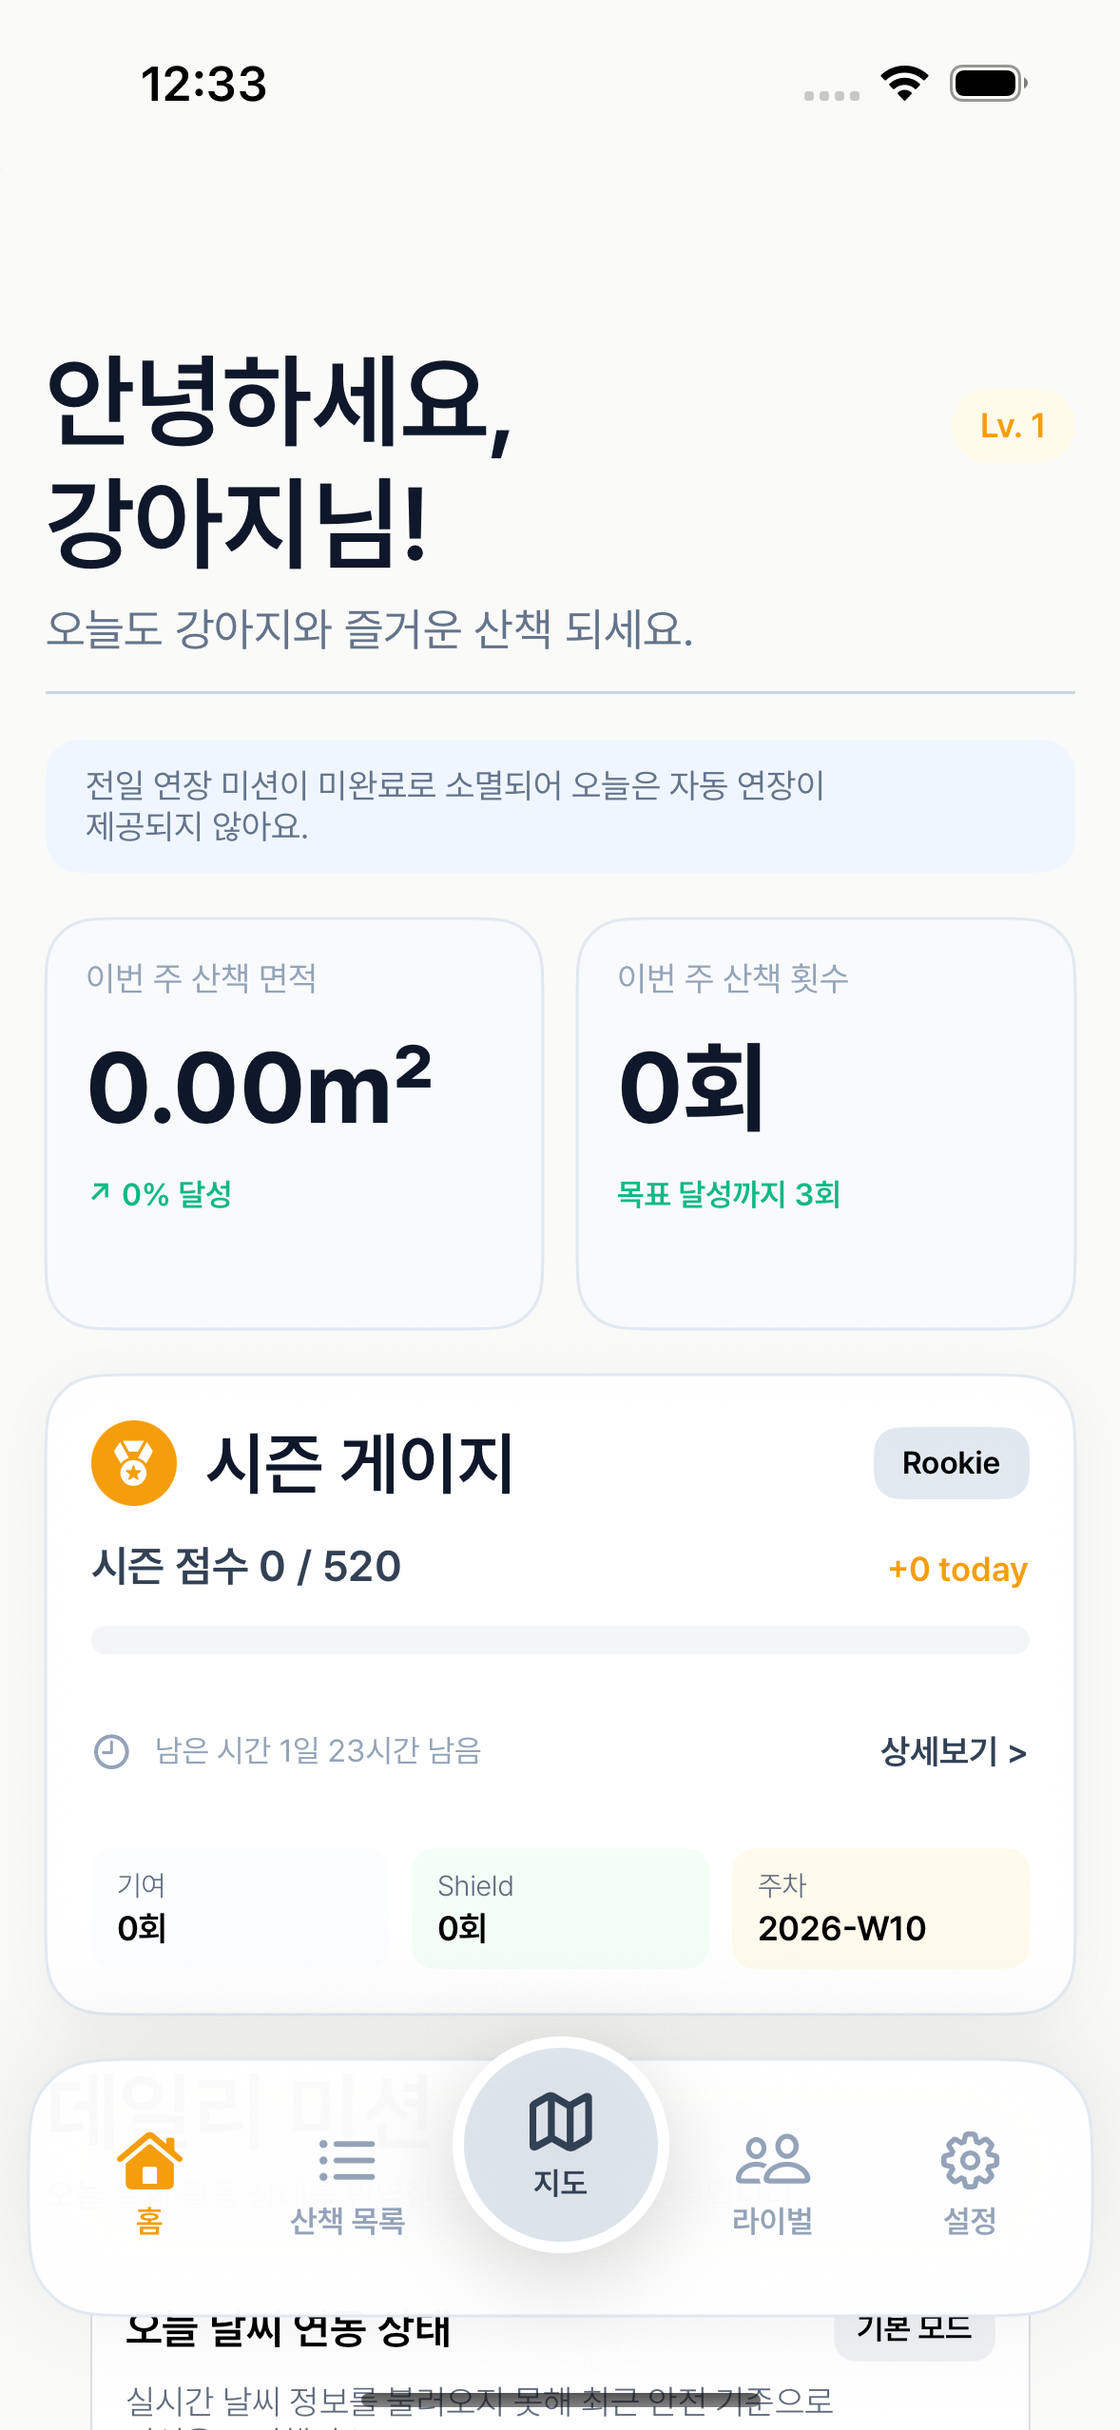
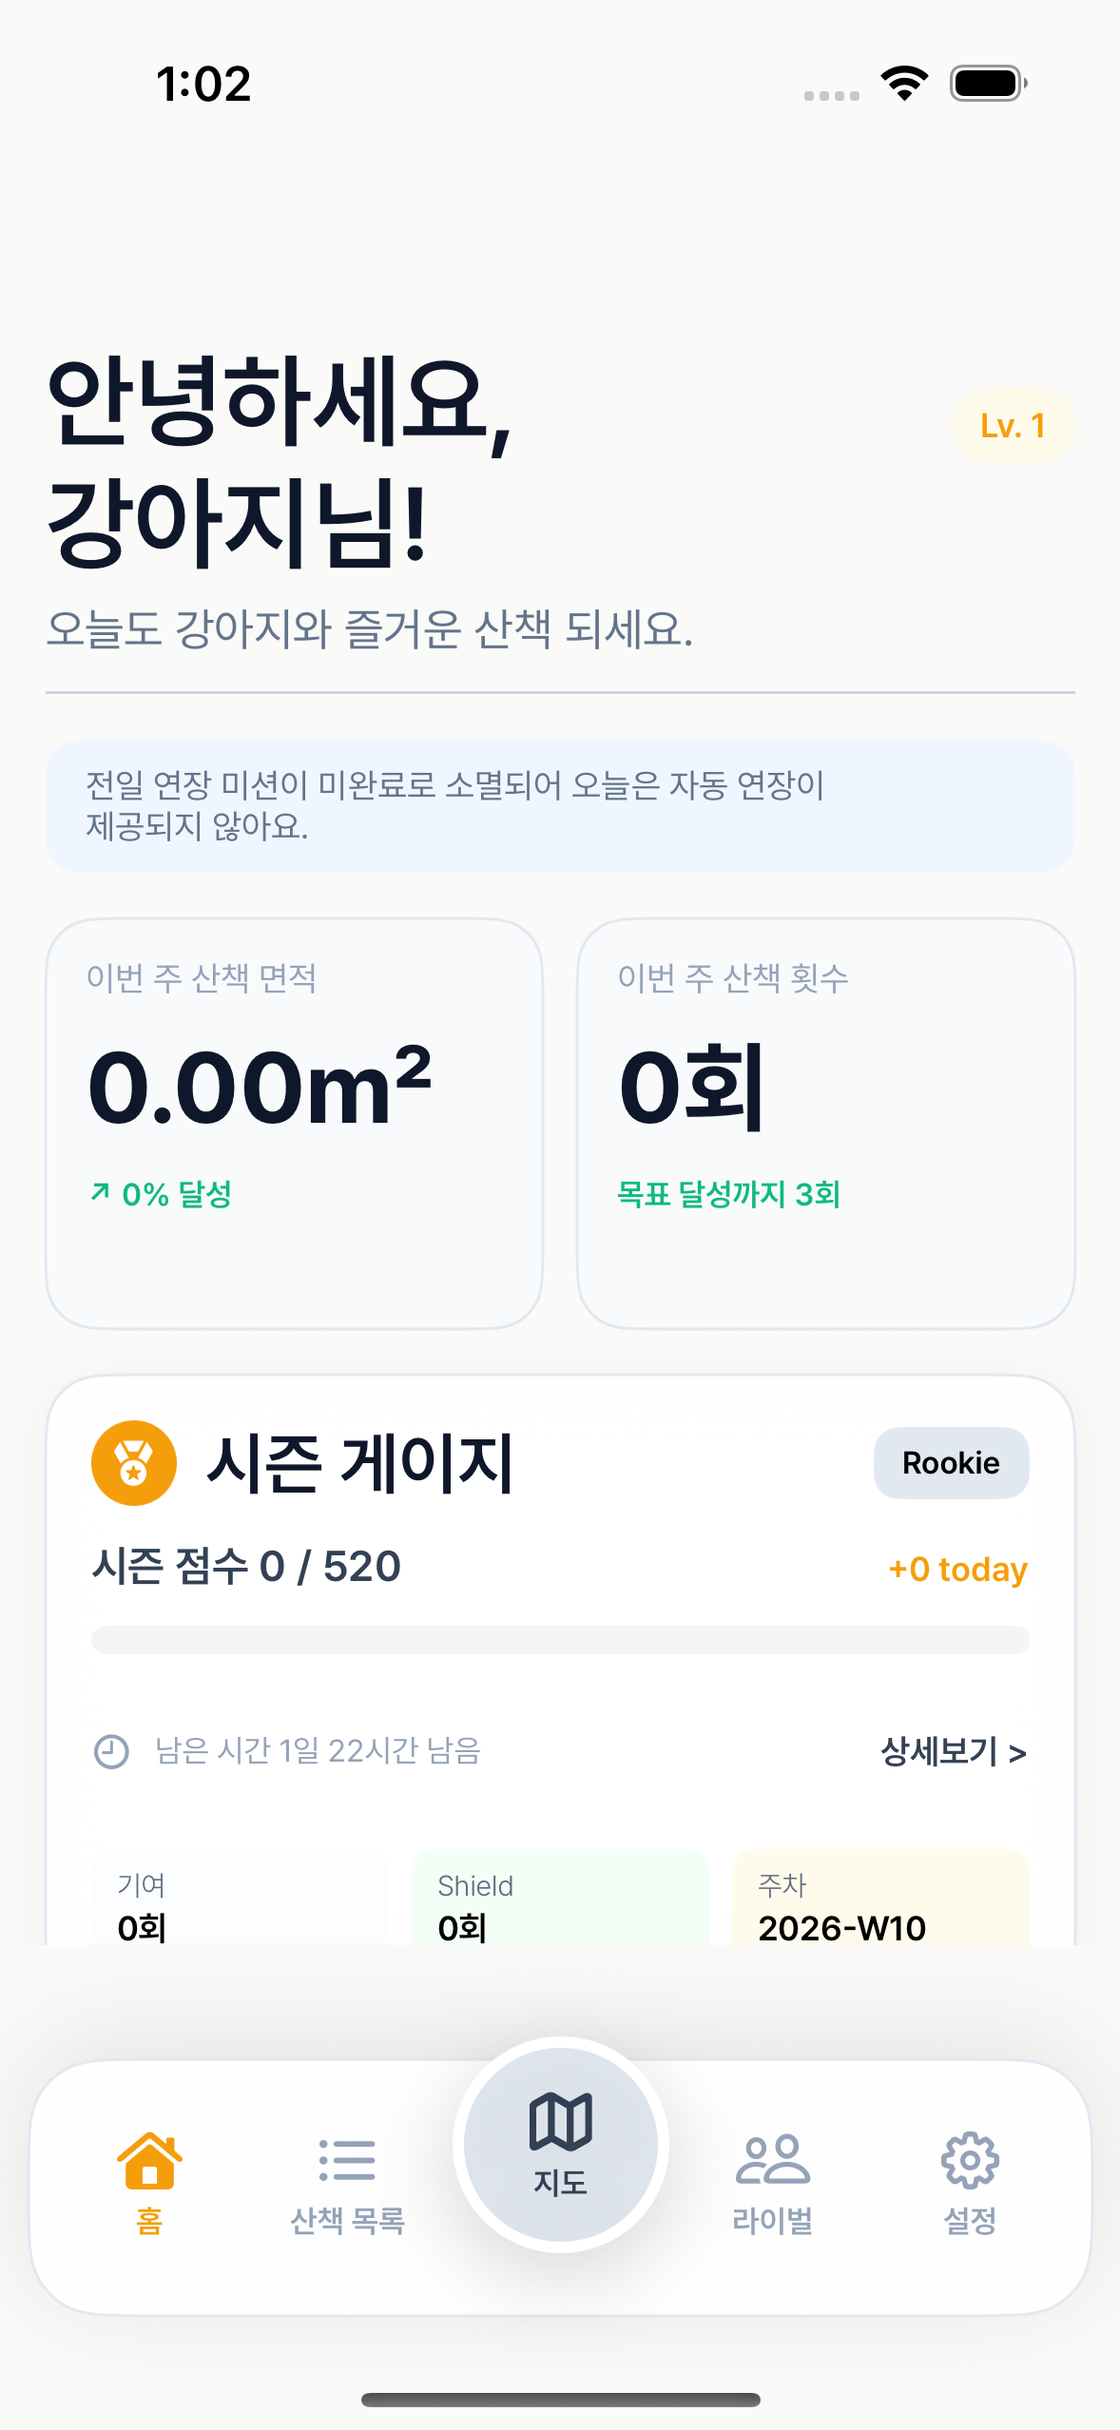
refactor: normalize app tab scaffold safe area contracts

diff --git a/dogArea/Views/GlobalViews/BaseView/AppTabScaffold.swift b/dogArea/Views/GlobalViews/BaseView/AppTabScaffold.swift
@@ -5,8 +5,29 @@ enum AppTabBarVisibility: Equatable {
     case hidden
 }
 
+enum AppTabLayoutMetrics {
+    static let defaultTabBarReservedHeight: CGFloat = 124
+    static let topSafeAreaPadding: CGFloat = 8
+    static let minimumBottomPadding: CGFloat = 12
+    static let defaultScrollExtraBottomPadding: CGFloat = 12
+    static let comfortableScrollExtraBottomPadding: CGFloat = 20
+    static let floatingOverlayLift: CGFloat = 28
+
+    /// 상단 오버레이가 상태 바와 겹치지 않도록 필요한 여백을 계산합니다.
+    /// - Parameters:
+    ///   - safeAreaTopInset: 현재 컨테이너의 상단 safe area inset 값입니다.
+    ///   - extra: 추가로 확보할 상단 여백입니다.
+    /// - Returns: 상단 오버레이에 적용할 최종 spacing 값입니다.
+    static func topOverlaySpacing(
+        safeAreaTopInset: CGFloat,
+        extra: CGFloat = topSafeAreaPadding
+    ) -> CGFloat {
+        max(safeAreaTopInset, 0) + extra
+    }
+}
+
 private struct AppTabBarReservedHeightKey: EnvironmentKey {
-    static let defaultValue: CGFloat = CustomTabBar.reservedContentHeight
+    static let defaultValue: CGFloat = AppTabLayoutMetrics.defaultTabBarReservedHeight
 }
 
 struct AppTabBarVisibilityPreferenceKey: PreferenceKey {
@@ -38,6 +59,37 @@ private struct AppTabBarContentPaddingModifier: ViewModifier {
     /// - Returns: 탭 바 예약 높이가 반영된 뷰입니다.
     func body(content: Content) -> some View {
         content.padding(.bottom, reservedHeight + extra)
+    }
+}
+
+private struct AppTabRootScrollLayoutModifier: ViewModifier {
+    let extraBottomPadding: CGFloat
+    let topSafeAreaPadding: CGFloat
+    let showsIndicators: Bool
+
+    /// 탭 루트 스크롤 화면의 공통 safe area, 배경, 하단 inset 정책을 적용합니다.
+    /// - Parameter content: 공통 탭 스크롤 레이아웃을 적용할 원본 뷰입니다.
+    /// - Returns: 전역 탭 스캐폴드 계약이 반영된 스크롤 뷰입니다.
+    func body(content: Content) -> some View {
+        content
+            .scrollIndicators(showsIndicators ? .visible : .hidden)
+            .safeAreaPadding(.top, topSafeAreaPadding)
+            .background(Color.appTabScaffoldBackground)
+            .appTabBarContentPadding(extra: extraBottomPadding)
+    }
+}
+
+private struct AppTabFloatingOverlayPaddingModifier: ViewModifier {
+    @Environment(\.appTabBarReservedHeight) private var reservedHeight
+
+    let lift: CGFloat
+    let minimumBottomPadding: CGFloat
+
+    /// 플로팅 CTA/오버레이가 하단 탭바 위에 안정적으로 배치되도록 여백을 적용합니다.
+    /// - Parameter content: 하단 플로팅 오버레이로 배치할 원본 뷰입니다.
+    /// - Returns: 탭바 회피용 하단 여백이 적용된 뷰입니다.
+    func body(content: Content) -> some View {
+        content.padding(.bottom, max(reservedHeight - lift, minimumBottomPadding))
     }
 }
 
@@ -106,6 +158,43 @@ extension View {
     /// - Returns: 탭 바 대비 하단 여백이 적용된 뷰입니다.
     func appTabBarContentPadding(extra: CGFloat = 0) -> some View {
         modifier(AppTabBarContentPaddingModifier(extra: extra))
+    }
+
+    /// 탭 루트의 스크롤 화면에 공통 safe area, 배경, 탭바 회피 여백을 적용합니다.
+    /// - Parameters:
+    ///   - extraBottomPadding: 탭바 예약 높이에 추가할 여분 하단 여백입니다.
+    ///   - topSafeAreaPadding: 상단 safe area 뒤에 추가할 공통 여백입니다.
+    ///   - showsIndicators: 스크롤 인디케이터 노출 여부입니다.
+    /// - Returns: 전역 탭 스크롤 레이아웃이 적용된 뷰입니다.
+    func appTabRootScrollLayout(
+        extraBottomPadding: CGFloat = AppTabLayoutMetrics.defaultScrollExtraBottomPadding,
+        topSafeAreaPadding: CGFloat = AppTabLayoutMetrics.topSafeAreaPadding,
+        showsIndicators: Bool = false
+    ) -> some View {
+        modifier(
+            AppTabRootScrollLayoutModifier(
+                extraBottomPadding: extraBottomPadding,
+                topSafeAreaPadding: topSafeAreaPadding,
+                showsIndicators: showsIndicators
+            )
+        )
+    }
+
+    /// 하단 플로팅 CTA/오버레이가 전역 탭바를 기준으로 자동 배치되도록 여백을 적용합니다.
+    /// - Parameters:
+    ///   - lift: 탭바 상단에서 얼마나 위로 띄울지 결정하는 값입니다.
+    ///   - minimumBottomPadding: 탭바 높이가 작을 때 보장할 최소 하단 여백입니다.
+    /// - Returns: 하단 플로팅 오버레이 여백이 적용된 뷰입니다.
+    func appTabFloatingOverlayPadding(
+        lift: CGFloat = AppTabLayoutMetrics.floatingOverlayLift,
+        minimumBottomPadding: CGFloat = AppTabLayoutMetrics.minimumBottomPadding
+    ) -> some View {
+        modifier(
+            AppTabFloatingOverlayPaddingModifier(
+                lift: lift,
+                minimumBottomPadding: minimumBottomPadding
+            )
+        )
     }
 
     /// 현재 화면이 전역 탭 바를 숨겨야 하는지 선언형으로 전달합니다.

diff --git a/dogAreaUITests/FeatureRegressionUITests.swift b/dogAreaUITests/FeatureRegressionUITests.swift
@@ -30,6 +30,30 @@ final class FeatureRegressionUITests: XCTestCase {
         XCTAssertTrue(primaryAction.isHittable, "지도 산책 시작 버튼이 하단 탭바에 가려져 탭 불가능합니다.")
     }
 
+    /// 산책 목록 탭의 핵심 콘텐츠 진입점이 하단 탭바에 가려지지 않는지 검증합니다.
+    func testFeatureRegression_WalkListPrimaryContentIsNotObscuredByTabBar() throws {
+        let app = launchAppForFeatureRegression()
+        XCTAssertTrue(openTab(index: 1, app: app), "산책 목록 탭 진입에 실패했습니다.")
+
+        let walkListScreen = screenElement(identifier: "screen.walkList.content", in: app)
+        XCTAssertTrue(waitUntilExists(walkListScreen, timeout: 8), "산책 목록 화면 렌더링에 실패했습니다.")
+
+        let firstCell = app.descendants(matching: .any).matching(identifier: "walklist.cell").firstMatch
+        if waitUntilExists(firstCell, timeout: 2) {
+            XCTAssertTrue(firstCell.isHittable, "산책 목록 셀이 하단 탭바에 가려져 탭 불가능합니다.")
+            return
+        }
+
+        let guestLoginButton = app.buttons["walklist.guest.login"]
+        if waitUntilExists(guestLoginButton, timeout: 2) {
+            XCTAssertTrue(guestLoginButton.isHittable, "산책 목록 게스트 로그인 버튼이 하단 탭바에 가려져 탭 불가능합니다.")
+            return
+        }
+
+        let emptyCard = app.otherElements["walklist.empty"]
+        XCTAssertTrue(waitUntilExists(emptyCard, timeout: 2), "산책 목록 탭의 기본 비어 있음 상태를 찾지 못했습니다.")
+    }
+
     /// 홈의 영역 목표 상세 진입 시 탭바가 숨겨지고 뒤로 복귀 시 다시 표시되는지 검증합니다.
     func testFeatureRegression_TerritoryGoalNavigationHidesAndRestoresTabBar() throws {
         let app = launchAppForFeatureRegression()

diff --git a/dogArea/Views/WalkListView/WalkListView.swift b/dogArea/Views/WalkListView/WalkListView.swift
@@ -85,12 +85,11 @@ struct WalkListView: View {
                 }
             }
             .padding(.top, 8)
-            .appTabBarContentPadding(extra: 12)
-        }.refreshable {
+        }
+        .refreshable {
             viewModel.fetchModel()
         }
-        .safeAreaPadding(.top, 8)
-        .background(Color.appTabScaffoldBackground)
+        .appTabRootScrollLayout(extraBottomPadding: 12)
         .onAppear{
             viewModel.fetchModel()
         }.navigationDestination(for: WalkDataModel.self) { model in
@@ -98,7 +97,6 @@ struct WalkListView: View {
         }.navigationTitle("산책 목록")
             .font(.appFont(for: .ExtraBold, size: 36))
             .accessibilityIdentifier("screen.walkList.content")
-        .background(Color.appTabScaffoldBackground.ignoresSafeArea())
     }
 
     var guestUpgradeCard: some View {
@@ -114,6 +112,7 @@ struct WalkListView: View {
             Button("로그인") {
                 _ = authFlow.requestAccess(feature: .cloudSync)
             }
+            .accessibilityIdentifier("walklist.guest.login")
             .buttonStyle(AppFilledButtonStyle(role: .secondary, fillsWidth: false))
         }
         .padding(10)
@@ -165,6 +164,7 @@ struct WalkListView: View {
             Button("전체 기록 보기") {
                 viewModel.showAllRecordsTemporarily()
             }
+            .accessibilityIdentifier("walklist.showAllRecords")
             .buttonStyle(AppFilledButtonStyle(role: .secondary, fillsWidth: false))
             .accessibilityLabel("전체 기록 보기")
         }
@@ -188,6 +188,7 @@ struct WalkListView: View {
         .appCardSurface()
         .padding(.horizontal, 16)
         .padding(.top, 12)
+        .accessibilityIdentifier("walklist.empty")
     }
 }
 

diff --git a/scripts/tabbar_safearea_regression_unit_check.swift b/scripts/tabbar_safearea_regression_unit_check.swift
@@ -59,6 +59,18 @@ assertTrue(
     scaffold.contains("func appTabBarVisibility(_ visibility: AppTabBarVisibility) -> some View"),
     "AppTabScaffold should expose declarative tab bar visibility"
 )
+assertTrue(
+    scaffold.contains("func appTabRootScrollLayout("),
+    "AppTabScaffold should expose shared tab root scroll layout"
+)
+assertTrue(
+    scaffold.contains("func appTabFloatingOverlayPadding("),
+    "AppTabScaffold should expose shared floating overlay padding"
+)
+assertTrue(
+    scaffold.contains("static func topOverlaySpacing("),
+    "AppTabLayoutMetrics should centralize top overlay spacing"
+)
 for (name, source) in [
     ("HomeView", homeView),
     ("MapView", mapView),
@@ -67,14 +79,29 @@ for (name, source) in [
     ("RivalTabView", rivalView)
 ] {
     assertTrue(
-        source.contains(".appTabBarContentPadding("),
-        "\(name) should use shared app tab bar padding"
-    )
-    assertTrue(
         !source.contains("CustomTabBar.reservedContentHeight"),
         "\(name) should not hard-code CustomTabBar reserved height"
     )
 }
+for (name, source) in [
+    ("HomeView", homeView),
+    ("WalkListView", walkListView),
+    ("NotificationCenterView", settingsView),
+    ("RivalTabView", rivalView)
+] {
+    assertTrue(
+        source.contains(".appTabRootScrollLayout("),
+        "\(name) should use shared app tab root scroll layout"
+    )
+}
+assertTrue(
+    mapView.contains(".appTabFloatingOverlayPadding("),
+    "MapView should use shared floating overlay padding for its CTA"
+)
+assertTrue(
+    mapView.contains("AppTabLayoutMetrics.topOverlaySpacing("),
+    "MapView should use shared top overlay spacing"
+)
 for (name, source) in [
     ("TerritoryGoalView", territoryGoalView),
     ("AreaDetailView", areaDetailView),

diff --git a/dogArea/Views/HomeView/HomeView.swift b/dogArea/Views/HomeView/HomeView.swift
@@ -20,7 +20,6 @@ private struct HomeScrollOffsetPreferenceKey: PreferenceKey {
 }
 
 struct HomeView: View {
-    @Environment(\.appTabBarReservedHeight) private var appTabBarReservedHeight
     private enum QuestWidgetTab: String, CaseIterable, Identifiable {
         case daily
         case weekly
@@ -155,10 +154,8 @@ struct HomeView: View {
                     }
                     .padding(.horizontal, 16)
                     .padding(.top, 20)
-                    .appTabBarContentPadding(extra: 12)
                 }
                 .coordinateSpace(name: "home.scroll")
-                .safeAreaPadding(.top, 8)
                 .onPreferenceChange(HomeScrollOffsetPreferenceKey.self) { value in
                     homeScrollOffsetY = value
                 }
@@ -224,6 +221,7 @@ struct HomeView: View {
                 }.sheet(isPresented: $isSeasonDetailPresented) {
                 seasonDetailSheet
                 }
+                .appTabRootScrollLayout(extraBottomPadding: 12)
 
                 scrollToTopFloatingButton(proxy: scrollProxy)
 
@@ -314,7 +312,7 @@ struct HomeView: View {
                 .shadow(color: Color.black.opacity(0.12), radius: 12, x: 0, y: 8)
             }
             .padding(.trailing, 20)
-            .padding(.bottom, appTabBarReservedHeight - 20)
+            .appTabFloatingOverlayPadding(lift: 20)
             .accessibilityLabel("홈 상단으로 이동")
             .accessibilityHint("스크롤 위치를 맨 위로 이동합니다")
             .transition(.move(edge: .trailing).combined(with: .opacity))

diff --git a/dogArea/Views/MapView/MapView.swift b/dogArea/Views/MapView/MapView.swift
@@ -12,7 +12,6 @@ import _MapKit_SwiftUI
 import UIKit
 #endif
 struct MapView : View{
-    @Environment(\.appTabBarReservedHeight) private var appTabBarReservedHeight
     @EnvironmentObject var loading: LoadingViewModel
     @EnvironmentObject var authFlow: AuthFlowCoordinator
     @StateObject private var myAlert = CustomAlertViewModel()
@@ -153,7 +152,11 @@ struct MapView : View{
                 MapAlertSubView(viewModel: viewModel, myAlert: myAlert)
 
                 VStack {
-                    Spacer().frame(height: max(proxy.safeAreaInsets.top, 0) + 8)
+                    Spacer().frame(
+                        height: AppTabLayoutMetrics.topOverlaySpacing(
+                            safeAreaTopInset: proxy.safeAreaInsets.top
+                        )
+                    )
                     HStack {
                         Spacer()
                         Button(action:{
@@ -380,7 +383,7 @@ struct MapView : View{
             isModalPresented: $isWalkingViewPresented,
             endWalkingViewPresented: $endWalkingViewPresented
         )
-        .padding(.bottom, max(appTabBarReservedHeight - 28, 12))
+        .appTabFloatingOverlayPadding()
     }
 
     var recoverableSessionBanner: some View {

diff --git a/scripts/ui_regression_matrix_unit_check.swift b/scripts/ui_regression_matrix_unit_check.swift
@@ -54,6 +54,7 @@ assertTrue(
 )
 for testName in [
     "testFeatureRegression_MapPrimaryActionIsNotObscuredByTabBar",
+    "testFeatureRegression_WalkListPrimaryContentIsNotObscuredByTabBar",
     "testFeatureRegression_TerritoryGoalNavigationHidesAndRestoresTabBar",
     "testFeatureRegression_SettingsAuthEntryPoints",
     "testFeatureRegression_MemberProfileEditPersistsUpdatedPetName",
@@ -69,6 +70,10 @@ for testName in [
 assertTrue(
     featureRegressionScript.contains("FeatureRegressionUITests"),
     "run_feature_regression_ui_tests.sh should target FeatureRegressionUITests"
+)
+assertTrue(
+    featureRegressionScript.contains("testFeatureRegression_WalkListPrimaryContentIsNotObscuredByTabBar"),
+    "run_feature_regression_ui_tests.sh should run the walk list tabbar regression"
 )
 assertTrue(
     featureRegressionScript.contains("testFeatureRegression_MemberProfileEditPersistsUpdatedPetName"),

diff --git a/dogArea/Views/ProfileSettingView/NotificationCenterView.swift b/dogArea/Views/ProfileSettingView/NotificationCenterView.swift
@@ -73,10 +73,8 @@ struct NotificationCenterView: View {
             }
             .padding(.horizontal, 16)
             .padding(.top, 24)
-            .appTabBarContentPadding(extra: 20)
         }
-        .scrollIndicators(.hidden)
-        .safeAreaPadding(.top, 8)
+        .appTabRootScrollLayout(extraBottomPadding: AppTabLayoutMetrics.comfortableScrollExtraBottomPadding)
         .onAppear {
             viewModel.reloadUserInfo()
         }
@@ -122,10 +120,8 @@ struct NotificationCenterView: View {
             }
             .padding(.horizontal, 16)
             .padding(.top, 24)
-            .appTabBarContentPadding(extra: 20)
         }
-        .scrollIndicators(.hidden)
-        .safeAreaPadding(.top, 8)
+        .appTabRootScrollLayout(extraBottomPadding: AppTabLayoutMetrics.comfortableScrollExtraBottomPadding)
     }
 
     private var memberProfileCard: some View {

diff --git a/dogArea/Views/GlobalViews/BaseView/CustomTabBar.swift b/dogArea/Views/GlobalViews/BaseView/CustomTabBar.swift
@@ -9,8 +9,6 @@ import Foundation
 import SwiftUI
 
 struct CustomTabBar: View {
-    static let reservedContentHeight: CGFloat = 124
-
     @Binding var selectedTab: Int
 
     private let sideItems: [TabVisualItem] = [
@@ -47,7 +45,7 @@ struct CustomTabBar: View {
             .padding(.bottom, 6)
         }
         .frame(maxWidth: .infinity)
-        .frame(height: Self.reservedContentHeight, alignment: .bottom)
+        .frame(height: AppTabLayoutMetrics.defaultTabBarReservedHeight, alignment: .bottom)
     }
 
     /// 일반 탭 아이템 버튼을 렌더링합니다.

diff --git a/dogArea/Views/ProfileSettingView/RivalTabView.swift b/dogArea/Views/ProfileSettingView/RivalTabView.swift
@@ -30,11 +30,8 @@ struct RivalTabView: View {
                 footerButtons
             }
             .padding(.top, 8)
-            .appTabBarContentPadding(extra: 20)
         }
-        .scrollIndicators(.hidden)
-        .safeAreaPadding(.top, 8)
-        .background(Color.appTabScaffoldBackground)
+        .appTabRootScrollLayout(extraBottomPadding: AppTabLayoutMetrics.comfortableScrollExtraBottomPadding)
         .accessibilityIdentifier("screen.rival.content")
         .onAppear {
             viewModel.start()

diff --git a/dogArea/Views/GlobalViews/BaseView/RootView.swift b/dogArea/Views/GlobalViews/BaseView/RootView.swift
@@ -65,7 +65,7 @@ struct RootView: View {
 
     var body: some View {
         tabContent
-            .appTabBarReservedHeight(CustomTabBar.reservedContentHeight)
+            .appTabBarReservedHeight(AppTabLayoutMetrics.defaultTabBarReservedHeight)
             .onPreferenceChange(AppTabBarVisibilityPreferenceKey.self) { visibility in
                 tabBarVisibility = visibility
             }
